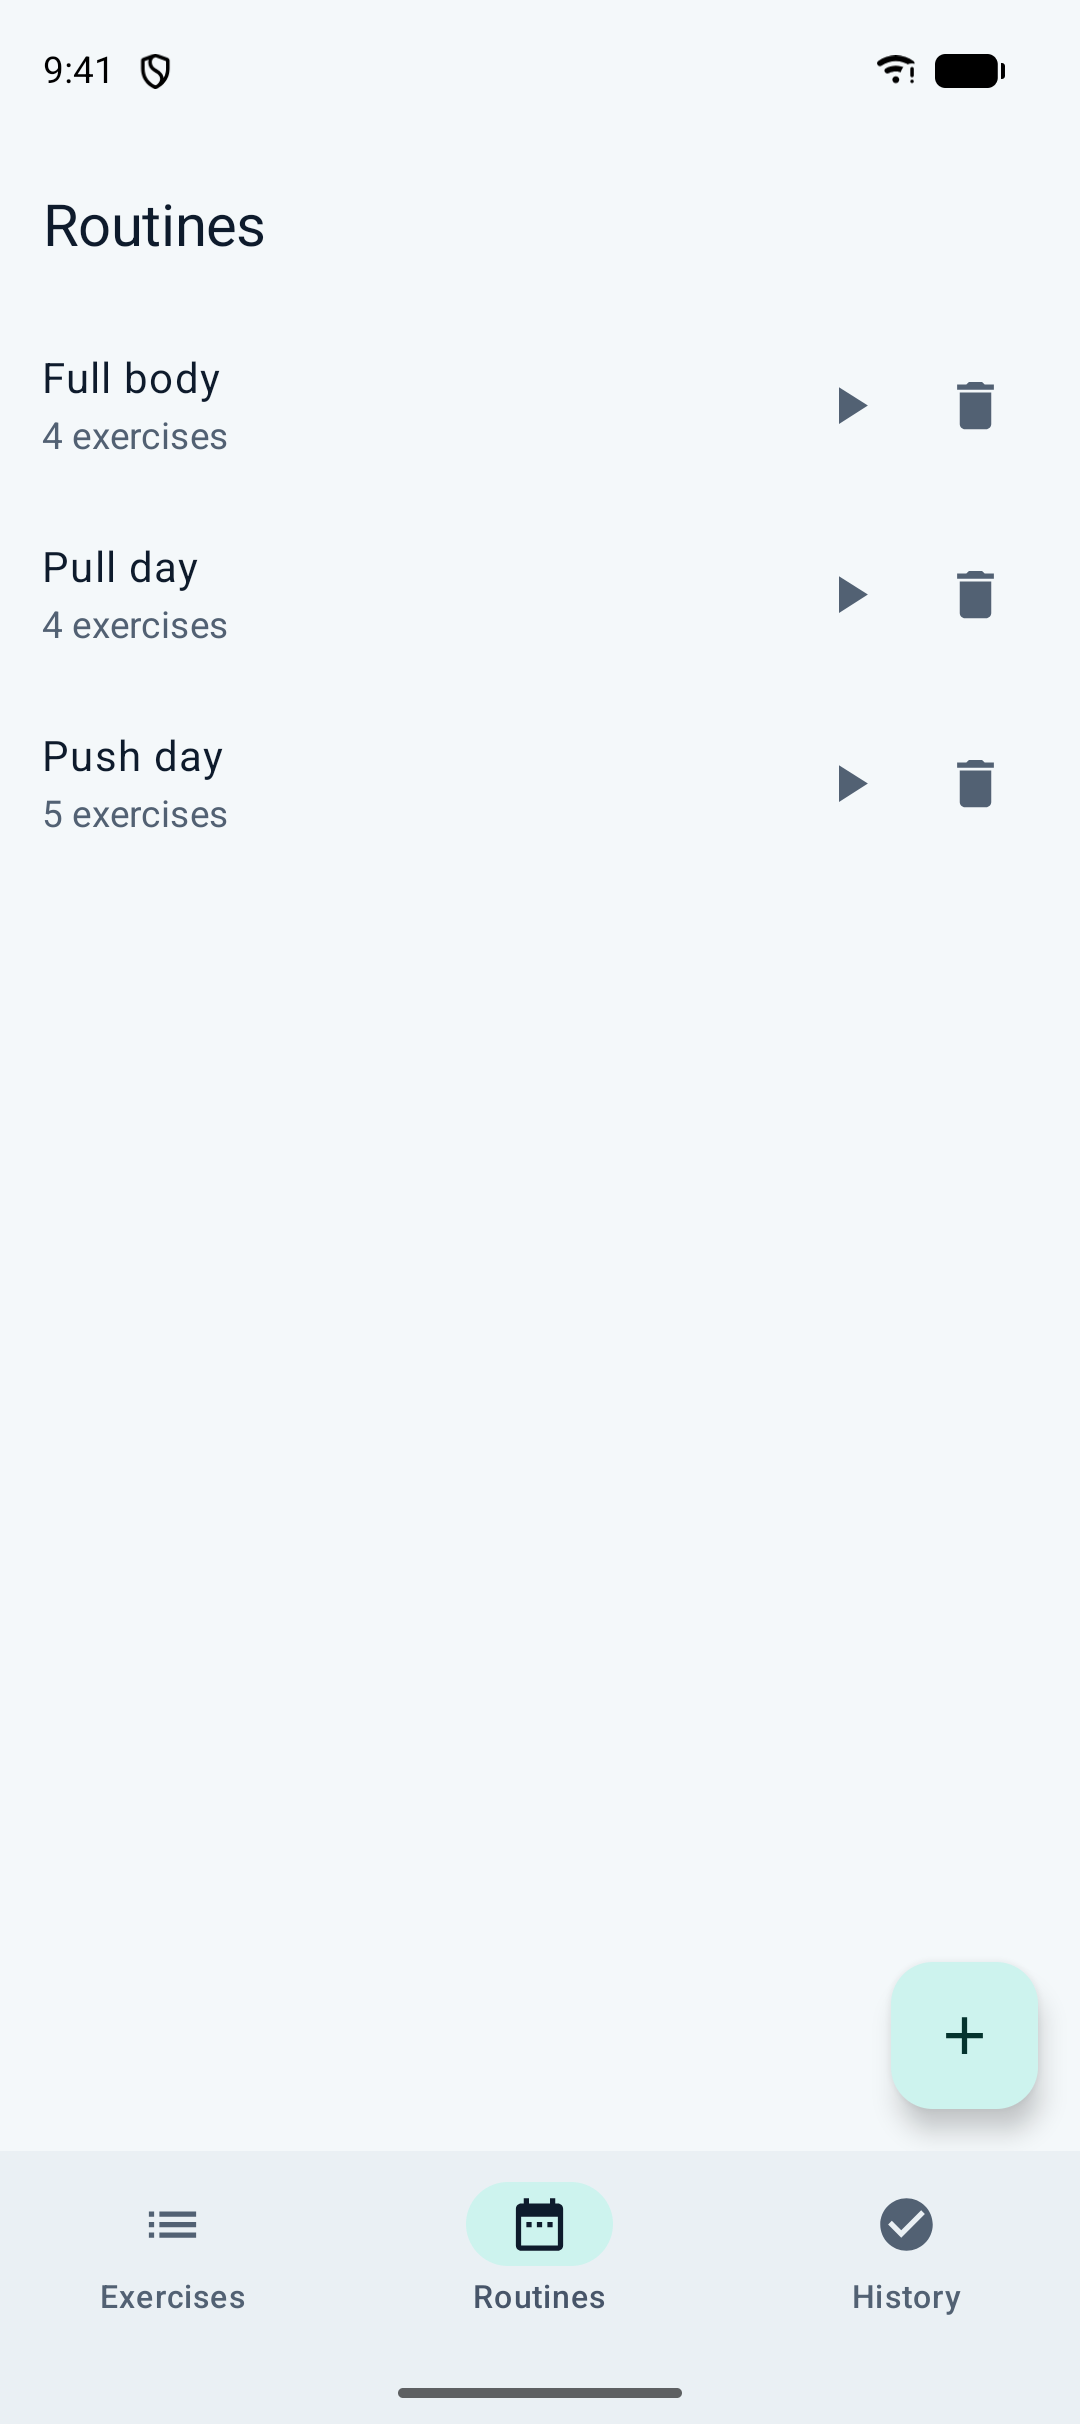
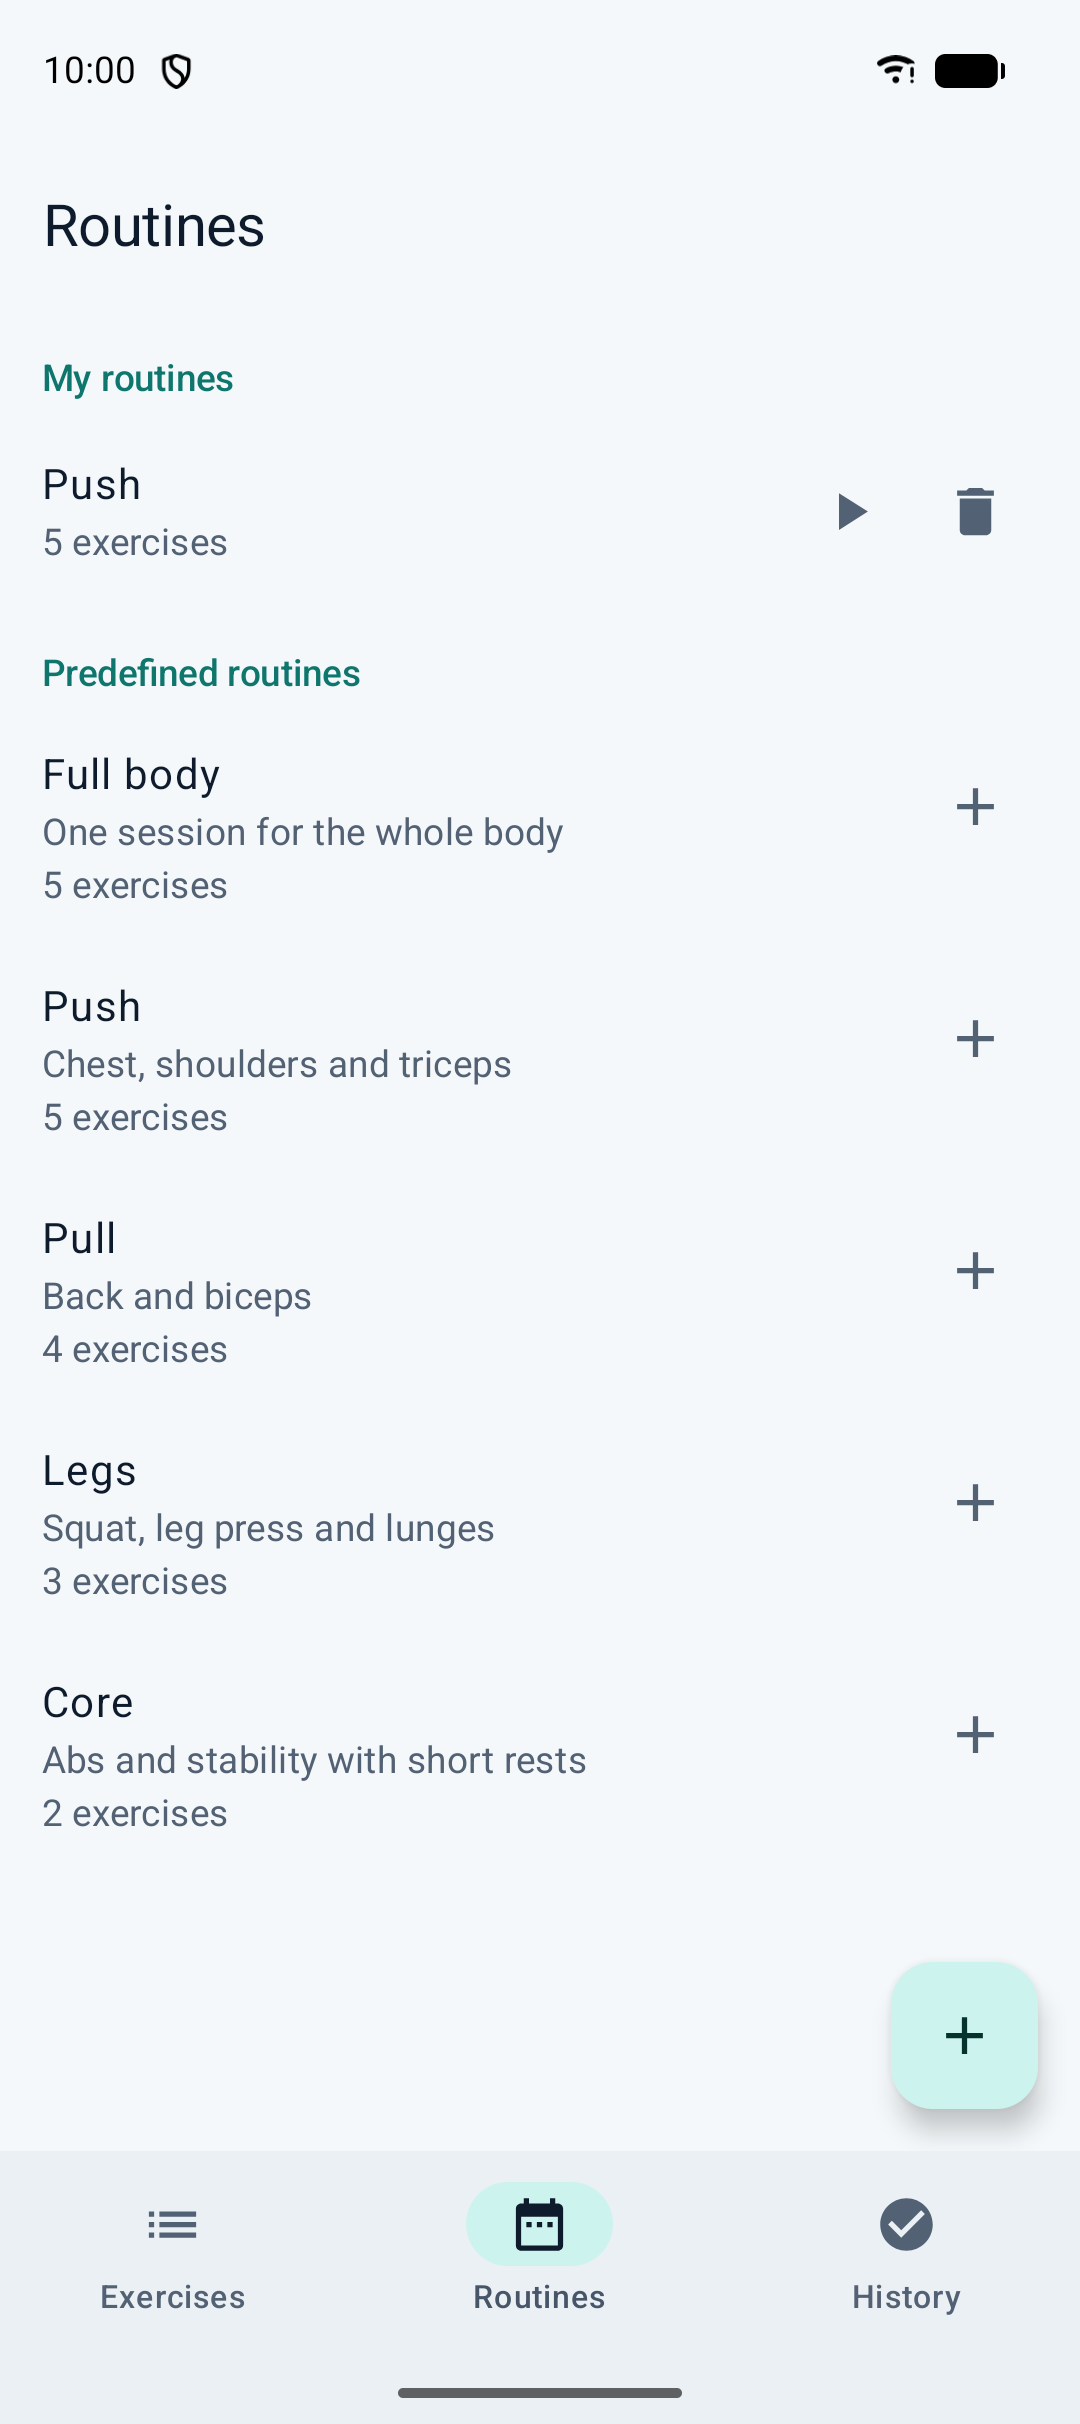
Document the predefined routines in the README
New routines screenshot showing the Predefined section, and the feature and
roadmap lines updated.

Claude-Session: https://claude.ai/code/session_017HXKoSbM4rq7wd3PVDRGnb

diff --git a/README.md b/README.md
@@ -14,7 +14,7 @@ An Android app for logging gym workouts (predefined and custom routines). It is 
   <img src="docs/screenshots/progress.png" width="19%" alt="Progress chart with metric selector">
 </p>
 
-Exercises, routines, a workout in progress (with the rest countdown), history and progress charts. The data shown is sample data.
+Exercises, routines (your own and predefined ones you can add with a tap), a workout in progress (with the rest countdown), history and progress charts. The data shown is sample data.
 
 ## Stack
 
@@ -36,7 +36,7 @@ core/
   testing                shared fakes and test rules
 feature/
   exercises              exercise catalog filtered by muscle group and searchable by name, ignoring case and accents (implemented)
-  routines               create, edit, reorder and delete custom routines, with a rest time per exercise picked on a wheel (implemented)
+  routines               create, edit, reorder and delete custom routines, with a rest time per exercise picked on a wheel; predefined routines (full body, push, pull, legs, core) are templates that are copied into your own routines (implemented)
   session                log sets, reps and weight for a routine, built with MVI; ticking a set starts the exercise's rest countdown (adjustable, with a buzz when it ends); the workout in progress is saved as a draft in Room and resumes after the app is closed (implemented)
   history                finished workouts, most recent first, with duration and volume (implemented)
   progress               per-exercise Canvas line chart of max weight, estimated 1RM, volume or reps with date ranges, opened from Exercises or History (implemented)
@@ -54,7 +54,7 @@ Allowed dependencies: `feature` → `core:domain` + `core:ui`; `core:data` → `
 ## Roadmap
 
 - **Level 1 (MVP):** exercise library, custom routines, workout session logging (sets, reps, weight), history.
-- **Level 2:** predefined routines (rest timer, progress charts and search are done).
+- **Level 2:** predefined routines, rest timer, progress charts and exercise search (all done).
 - **Level 3:** remote catalog with sync, WorkManager, notifications, widget (Glance).
 - **Later:** Baseline Profiles and Macrobenchmark, screenshot tests, migrating `core:domain` and `core:data` to KMP.
 
